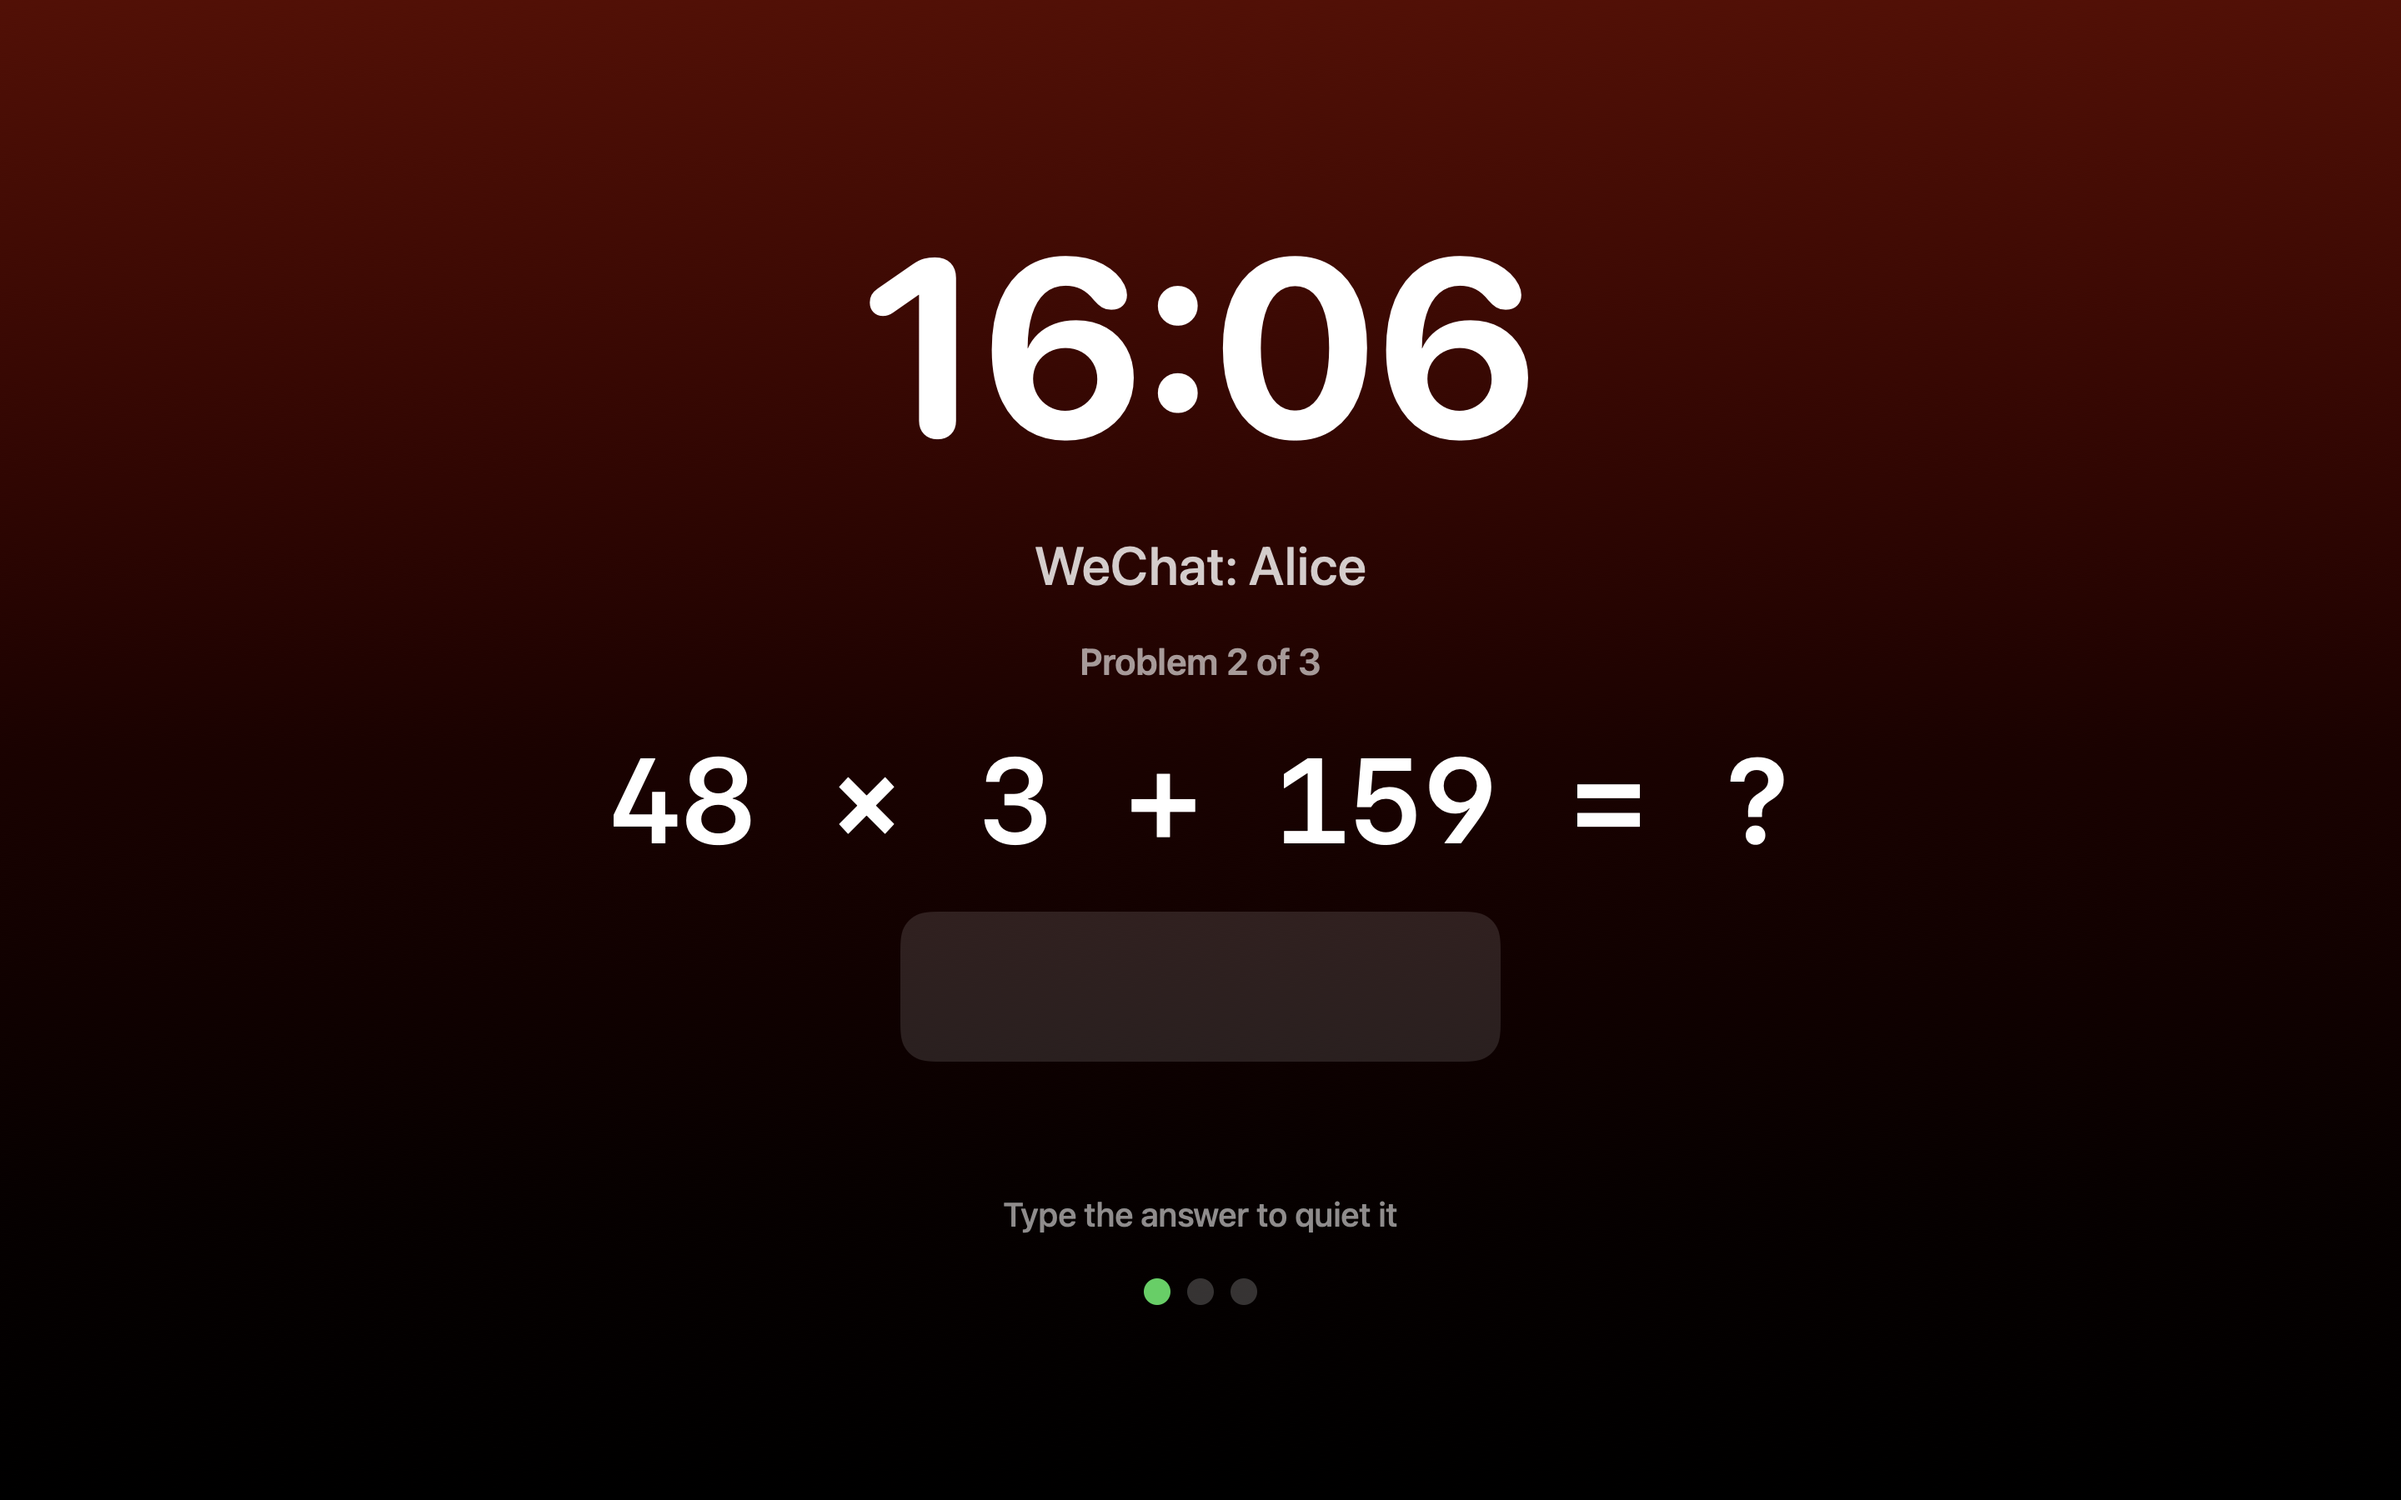
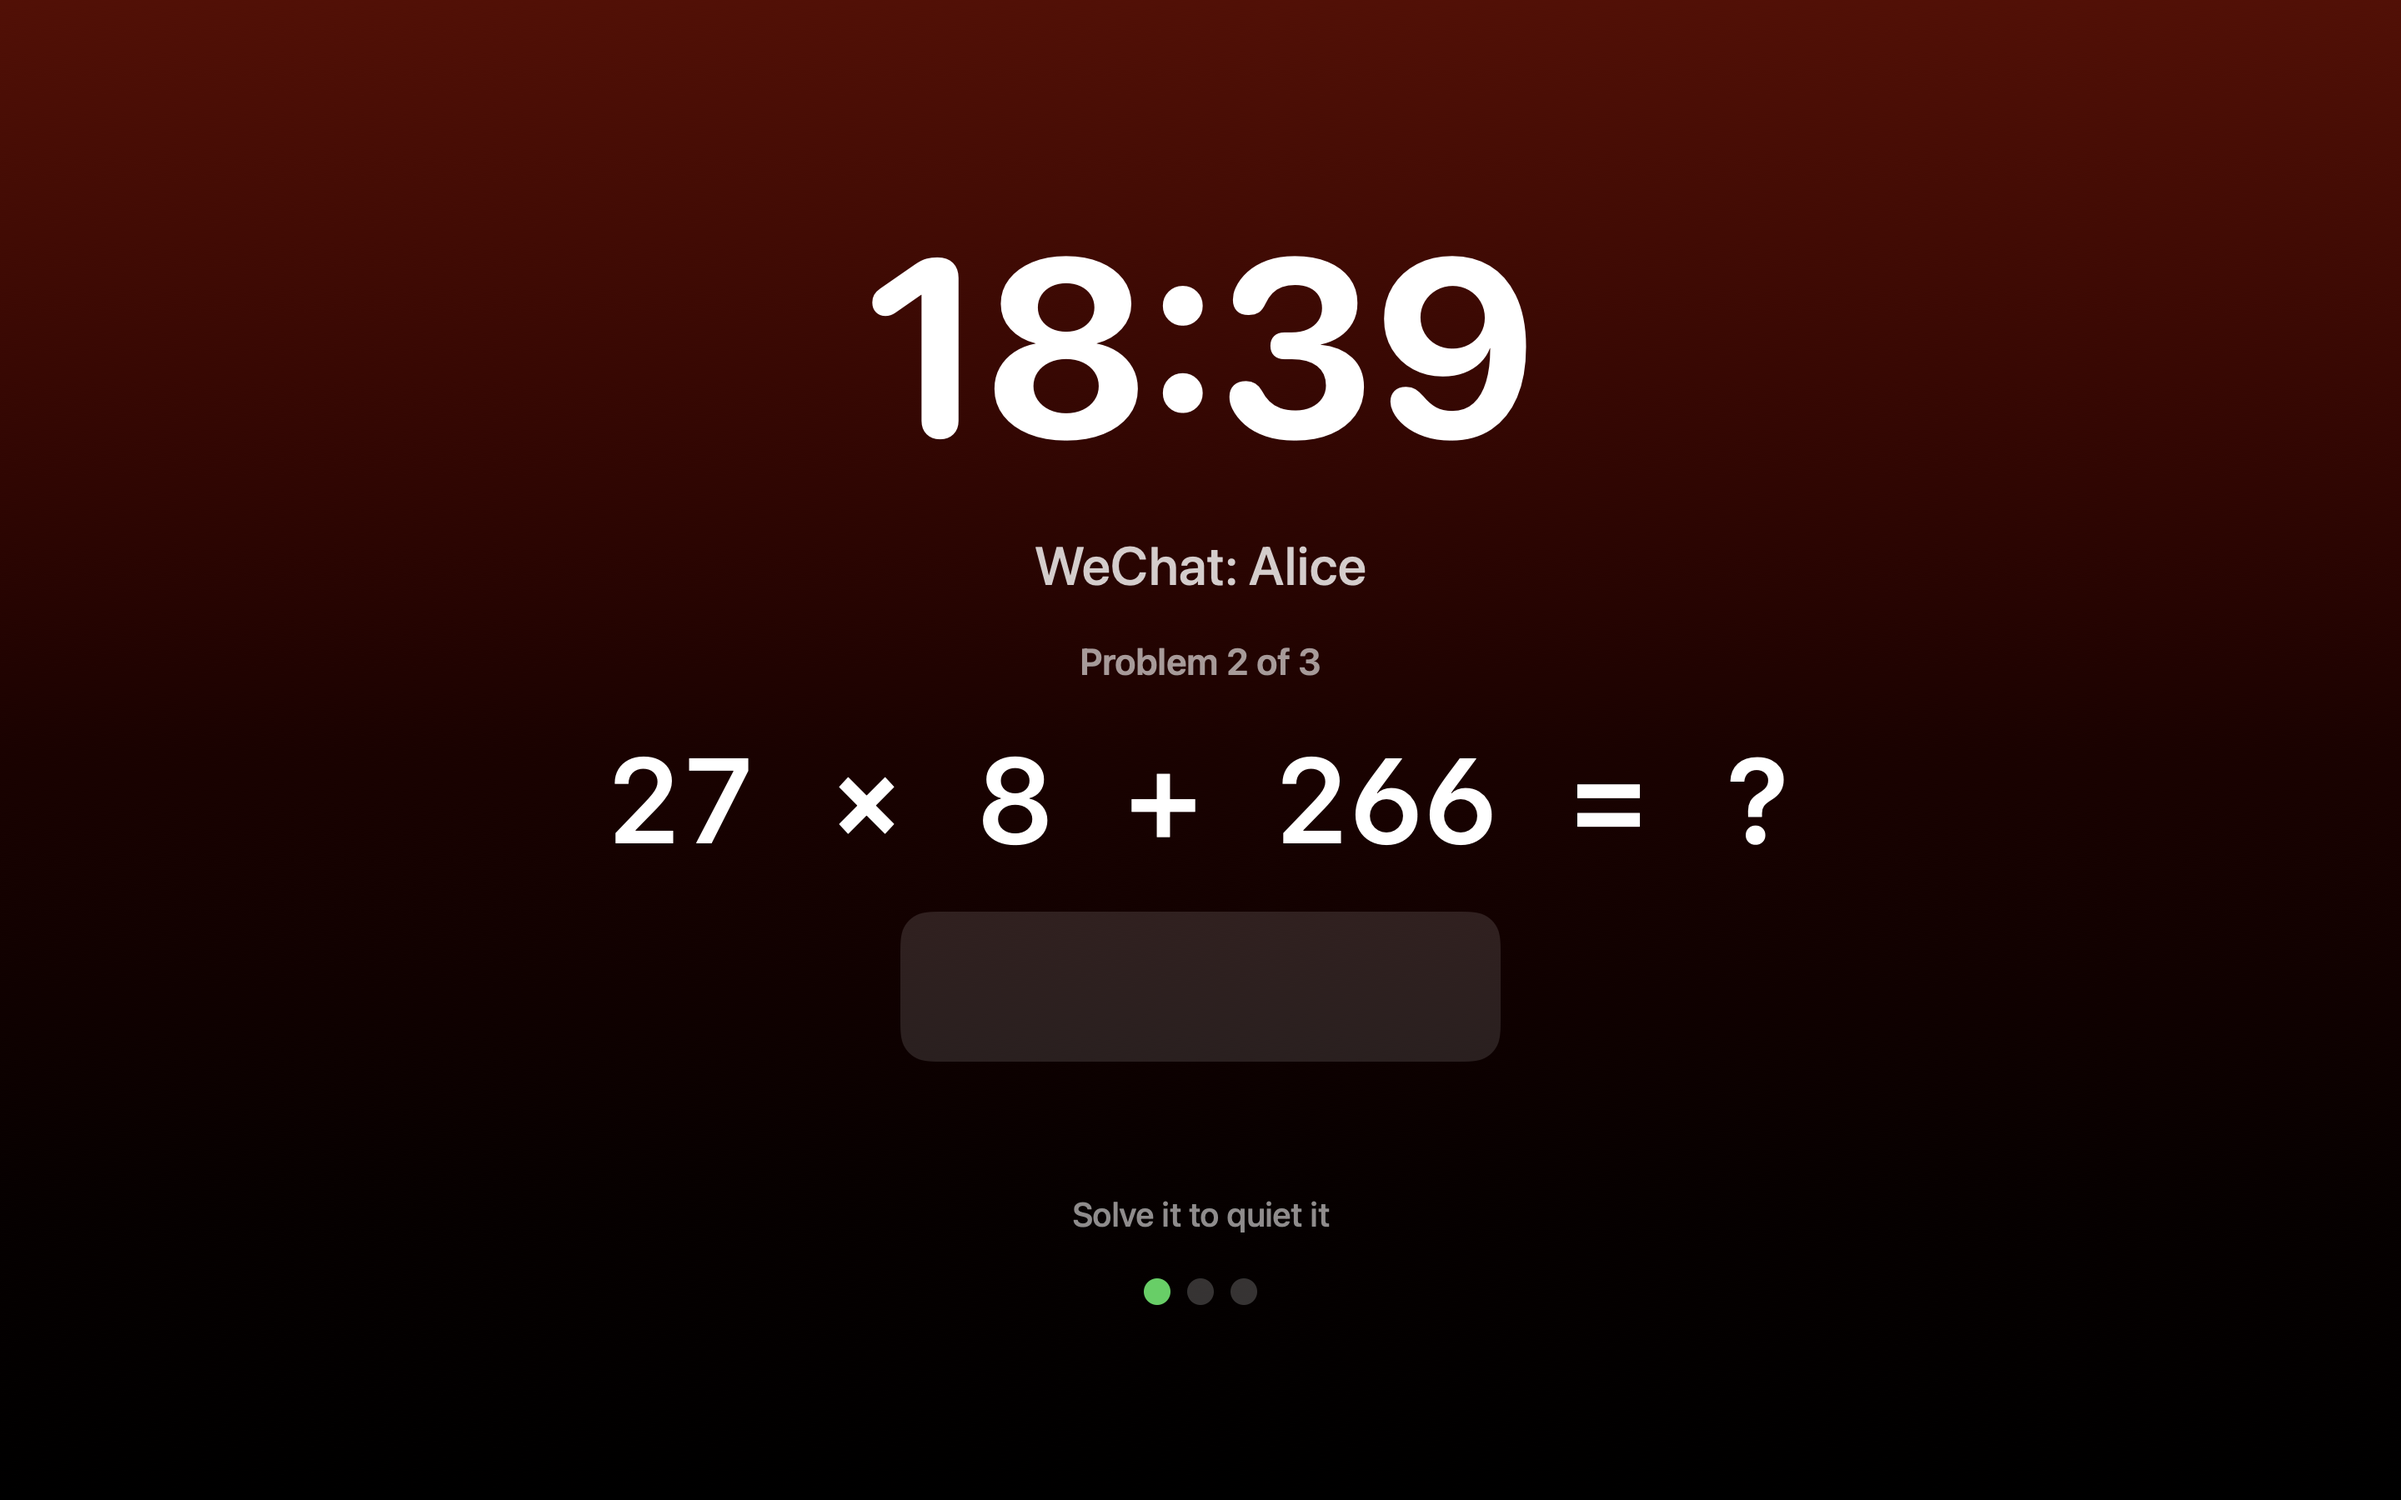
Only a right answer quiets the siren; typing alone never does (#1)
Any key in the answer box used to silence the siren for 20 seconds, so
mashing random keys kept a ring quiet without solving anything (11-11:
a teammate did, and it read as turned off). Now the siren stays at full
until a right answer, which buys 20 seconds of quiet for the next
problem. Self-test: mashed keys and a wrong answer leave it at full; a
right answer quiets it.

diff --git a/app/main.swift b/app/main.swift
@@ -193,7 +193,8 @@ final class Ringer: ObservableObject {
     static let shared = Ringer()
     static var silent = false          // tests: no sound, no volume change
     static var headless = false        // tests: build kiosk windows but never show them
-    /// The siren goes silent while you type an answer, and comes back this long after the last key.
+    /// A right answer quiets the siren this long, for the next problem. Typing alone quiets nothing: until 11-11 any key in the
+    /// answer box silenced it, and a teammate mashing keys kept it off without solving anything.
     static var quietFor: TimeInterval = 20
     var windowsForTest: [NSWindow] { windows }
     var playerForTest: AVAudioPlayer? { player }
@@ -202,11 +203,11 @@ final class Ringer: ObservableObject {
     @Published var problem = Problem.random()
     @Published var solved = 0
     @Published var feedback = ""
-    @Published var lastKey = Date.distantPast
+    @Published var quietSince = Date.distantPast
     var total: Int { alarm?.problems ?? 3 }
-    var isQuiet: Bool { Date().timeIntervalSince(lastKey) < Ringer.quietFor }
-    var quietLeft: Int { Swift.max(0, Int((Ringer.quietFor - Date().timeIntervalSince(lastKey)).rounded(.up))) }
-    /// What the siren plays at, before the test mute: 0 while typing, 1 otherwise.
+    var isQuiet: Bool { Date().timeIntervalSince(quietSince) < Ringer.quietFor }
+    var quietLeft: Int { Swift.max(0, Int((Ringer.quietFor - Date().timeIntervalSince(quietSince)).rounded(.up))) }
+    /// What the siren plays at, before the test mute: 0 just after a right answer, 1 otherwise.
     private(set) var sirenVolume: Float = 1
 
     private var windows: [NSWindow] = []
@@ -220,7 +221,7 @@ final class Ringer: ObservableObject {
 
     func ring(_ a: Alarm) {
         guard !isRinging else { return }
-        alarm = a; solved = 0; feedback = ""; problem = .random(); startedAt = Date(); lastKey = .distantPast
+        alarm = a; solved = 0; feedback = ""; problem = .random(); startedAt = Date(); quietSince = .distantPast
         var id: IOPMAssertionID = 0
         IOPMAssertionDeclareUserActivity("Wake alarm" as CFString, kIOPMUserActiveLocal, &id)
         takeOverScreens(show: !Ringer.headless)
@@ -278,14 +279,7 @@ final class Ringer: ObservableObject {
         if Date().timeIntervalSince(startedAt) > 3600 { stop() }   // hard cap: 1 hour
     }
 
-    /// Each key in the answer box: the siren stops at once and stays off while you keep typing.
-    func typed() {
-        guard isRinging else { return }
-        lastKey = Date()
-        updateLoudness()
-    }
-
-    /// Silent within quietFor of the last key, full blast otherwise. Runs on every key and every second.
+    /// Silent within quietFor of a right answer, full blast otherwise. Runs on every answer and every second.
     func updateLoudness() {
         sirenVolume = isQuiet ? 0 : 1
         player?.volume = Ringer.silent ? 0 : sirenVolume
@@ -294,14 +288,16 @@ final class Ringer: ObservableObject {
     func submit(_ text: String) -> Bool {
         let digits = text.trimmingCharacters(in: .whitespaces)
         guard let n = Int(digits) else { feedback = "Numbers only"; return false }
-        if n == problem.answer {
+        let right = n == problem.answer
+        if right {
             solved += 1; feedback = ""
             if solved >= total { stop(); return true }
+            quietSince = Date(); updateLoudness()   // (quiet for the next problem)
         } else {
             feedback = "Wrong. New problem."
         }
         problem = .random()
-        return n == problem.answer
+        return right
     }
 
     func stop() {
@@ -359,11 +355,10 @@ struct RingView: View {
                         .frame(width: 360, height: 90)
                         .background(RoundedRectangle(cornerRadius: 18).fill(.white.opacity(0.12)))
                         .focused($focused)
-                        .onChange(of: input) { _, _ in r.typed() }
-                        .onSubmit { r.typed(); _ = r.submit(input); input = ""; focused = true }
+                        .onSubmit { _ = r.submit(input); input = ""; focused = true }
                     Text(r.feedback.isEmpty ? " " : r.feedback)
                         .font(.system(size: 24, weight: .semibold)).foregroundStyle(.red)
-                    Text(r.isQuiet ? "Quiet while you type · back in \(r.quietLeft) s" : "Type the answer to quiet it")
+                    Text(r.isQuiet ? "Right · quiet for \(r.quietLeft) s" : "Solve it to quiet it")
                         .font(.system(size: 20, weight: .medium)).foregroundStyle(.white.opacity(0.55))
                     HStack(spacing: 10) {
                         ForEach(0..<r.total, id: \.self) { i in
@@ -625,12 +620,11 @@ func selftest() -> Int32 {
     let volBefore = Volume.get()
     check(r.isRinging, "ring starts")
     check(r.playerForTest?.isPlaying == true && r.playerForTest?.numberOfLoops == -1, "siren playing on loop (muted for test)")
-    check(r.sirenVolume == 1 && !r.isQuiet, "siren at full before any key")
-    r.typed(); check(r.sirenVolume == 0 && r.isQuiet, "siren silent the moment you type")
-    r.lastKey = Date().addingTimeInterval(-(Ringer.quietFor - 2)); r.updateLoudness()
-    check(r.sirenVolume == 0, "still silent \(Int(Ringer.quietFor) - 2) s after the last key")
-    r.lastKey = Date().addingTimeInterval(-(Ringer.quietFor + 1)); r.updateLoudness()
-    check(r.sirenVolume == 1 && !r.isQuiet, "siren back at full \(Int(Ringer.quietFor) + 1) s after the last key")
+    check(r.sirenVolume == 1 && !r.isQuiet, "siren at full before any answer")
+    r.quietSince = Date().addingTimeInterval(-(Ringer.quietFor - 2)); r.updateLoudness()
+    check(r.sirenVolume == 0, "still quiet \(Int(Ringer.quietFor) - 2) s after a right answer")
+    r.quietSince = Date().addingTimeInterval(-(Ringer.quietFor + 1)); r.updateLoudness()
+    check(r.sirenVolume == 1 && !r.isQuiet, "siren back at full \(Int(Ringer.quietFor) + 1) s after a right answer")
     check(r.playerForTest?.volume == 0, "test mute holds through quiet and loud")
     // A real key into the math screen's answer box, through AppKit's field editor. SwiftUI orders a window front once its
     // focused field changes, so this runs in its own window, fully transparent and far off every screen, closed after.
@@ -646,12 +640,12 @@ func selftest() -> Int32 {
     let tf = field(th)
     check(tf != nil, "answer box found on the math screen")
     if let tf, tw.makeFirstResponder(tf), let ed = tf.currentEditor() as? NSTextView {
-        ed.insertText("4", replacementRange: NSRange(location: NSNotFound, length: 0))
+        for k in ["4", "x", "9", "q", "7"] { ed.insertText(k, replacementRange: NSRange(location: NSNotFound, length: 0)) }
         RunLoop.main.run(until: Date().addingTimeInterval(0.3))
     }
-    check(r.isQuiet && r.sirenVolume == 0, "a key typed in the answer box silences the siren")
+    check(!r.isQuiet && r.sirenVolume == 1, "keys mashed into the answer box leave the siren at full")
     tw.orderOut(nil); tw.close()
-    r.lastKey = .distantPast; r.updateLoudness()
+    r.quietSince = .distantPast; r.updateLoudness()
     check(r.windowsForTest.count == NSScreen.screens.count, "one kiosk window per screen (\(NSScreen.screens.count))")
     check(r.windowsForTest.allSatisfy { w in w.level == .screenSaver && w.canBecomeKey
             && NSScreen.screens.contains { $0.frame == w.frame } }, "kiosk windows at screen-saver level, full screen")
@@ -663,7 +657,9 @@ func selftest() -> Int32 {
     check(NSApp.delegate?.applicationShouldTerminate?(NSApp) == .terminateCancel, "quit blocked while ringing")
     _ = r.submit("abc"); check(r.isRinging && r.solved == 0, "non-number rejected")
     _ = r.submit(String(r.problem.answer + 1)); check(r.isRinging && r.solved == 0, "wrong answer rejected")
+    check(!r.isQuiet && r.sirenVolume == 1, "a wrong answer buys no quiet")
     _ = r.submit(String(r.problem.answer)); check(r.isRinging && r.solved == 1, "1 of 2 solved, still ringing")
+    check(r.isQuiet && r.sirenVolume == 0, "a right answer quiets the siren for the next problem")
     _ = r.submit(String(r.problem.answer)); check(!r.isRinging, "2 of 2 solved, alarm stops")
     check(NSApp.delegate?.applicationShouldTerminate?(NSApp) == .terminateNow, "quit allowed after")
     check(r.playerForTest == nil && r.windowsForTest.isEmpty, "siren stopped, windows closed")
@@ -684,8 +680,8 @@ if let i = args.firstIndex(of: "--render"), i + 1 < args.count {
     let r = Ringer.shared
     r.alarm = Alarm(problems: 3, label: "WeChat: Alice"); r.solved = 1
     renderPNG(RingView(r: r), size: NSSize(width: 1440, height: 900), to: dir + "/ring.png")
-    r.lastKey = Date().addingTimeInterval(-6)
-    renderPNG(RingView(r: r), size: NSSize(width: 1440, height: 900), to: dir + "/ring-typing.png")
+    r.quietSince = Date().addingTimeInterval(-6)
+    renderPNG(RingView(r: r), size: NSSize(width: 1440, height: 900), to: dir + "/ring-quiet.png")
     AlarmStore.shared.alarms = [Alarm(hour: 7, minute: 0, days: [2, 3, 4, 5, 6], label: "Work"),
                                 Alarm(hour: 9, minute: 30, days: [1, 7], enabled: false)]
     renderPNG(ContentView(), size: NSSize(width: 400, height: 460), to: dir + "/alarms.png")

diff --git a/README.md b/README.md
@@ -6,9 +6,9 @@ When it rings, Wake covers every screen, blocks Cmd-Tab, Force Quit, and Quit, t
 
 <p align="center"><img src="docs/images/ring.png" width="760" alt="Wake ringing: a full-screen clock, the label 'WeChat: Alice', and the math problem 24 × 9 + 105"></p>
 
-| Alarm list (menu bar app) | While you type, the siren is quiet |
+| Alarm list (menu bar app) | After a right answer, the siren is quiet |
 |---|---|
-| <img src="docs/images/alarms.png" width="340" alt="Wake's alarm list with a weekday 7:00 alarm and a disabled weekend 9:30 alarm"> | <img src="docs/images/ring-typing.png" width="440" alt="The ring screen with 'Quiet while you type · back in 14 s'"> |
+| <img src="docs/images/alarms.png" width="340" alt="Wake's alarm list with a weekday 7:00 alarm and a disabled weekend 9:30 alarm"> | <img src="docs/images/ring-quiet.png" width="440" alt="The ring screen with 'Right · quiet for 14 s'"> |
 
 ## How it fits together
 
@@ -207,7 +207,7 @@ Everything is in `app/main.swift`:
 |---|---|
 | Problem difficulty | `Problem.random()`, default `a × b + c` with a 13–49, b 3–9, c 101–399 |
 | Siren sound | `Siren.wav()`, which generates a 2 s loop of 880 and 1320 Hz square-wave beeps |
-| Quiet-while-typing window | `Ringer.quietFor`, default 20 s |
+| Quiet after a right answer | `Ringer.quietFor`, default 20 s; typing alone never quiets it |
 | Safety cap | `Ringer.enforce()` stops the alarm after 1 hour |
 | What gets locked | `Ringer.lockOptions` |
 | Bundle id | `BUNDLE_ID=com.you.wake app/build.sh`. The alarms are stored in that defaults domain. |
